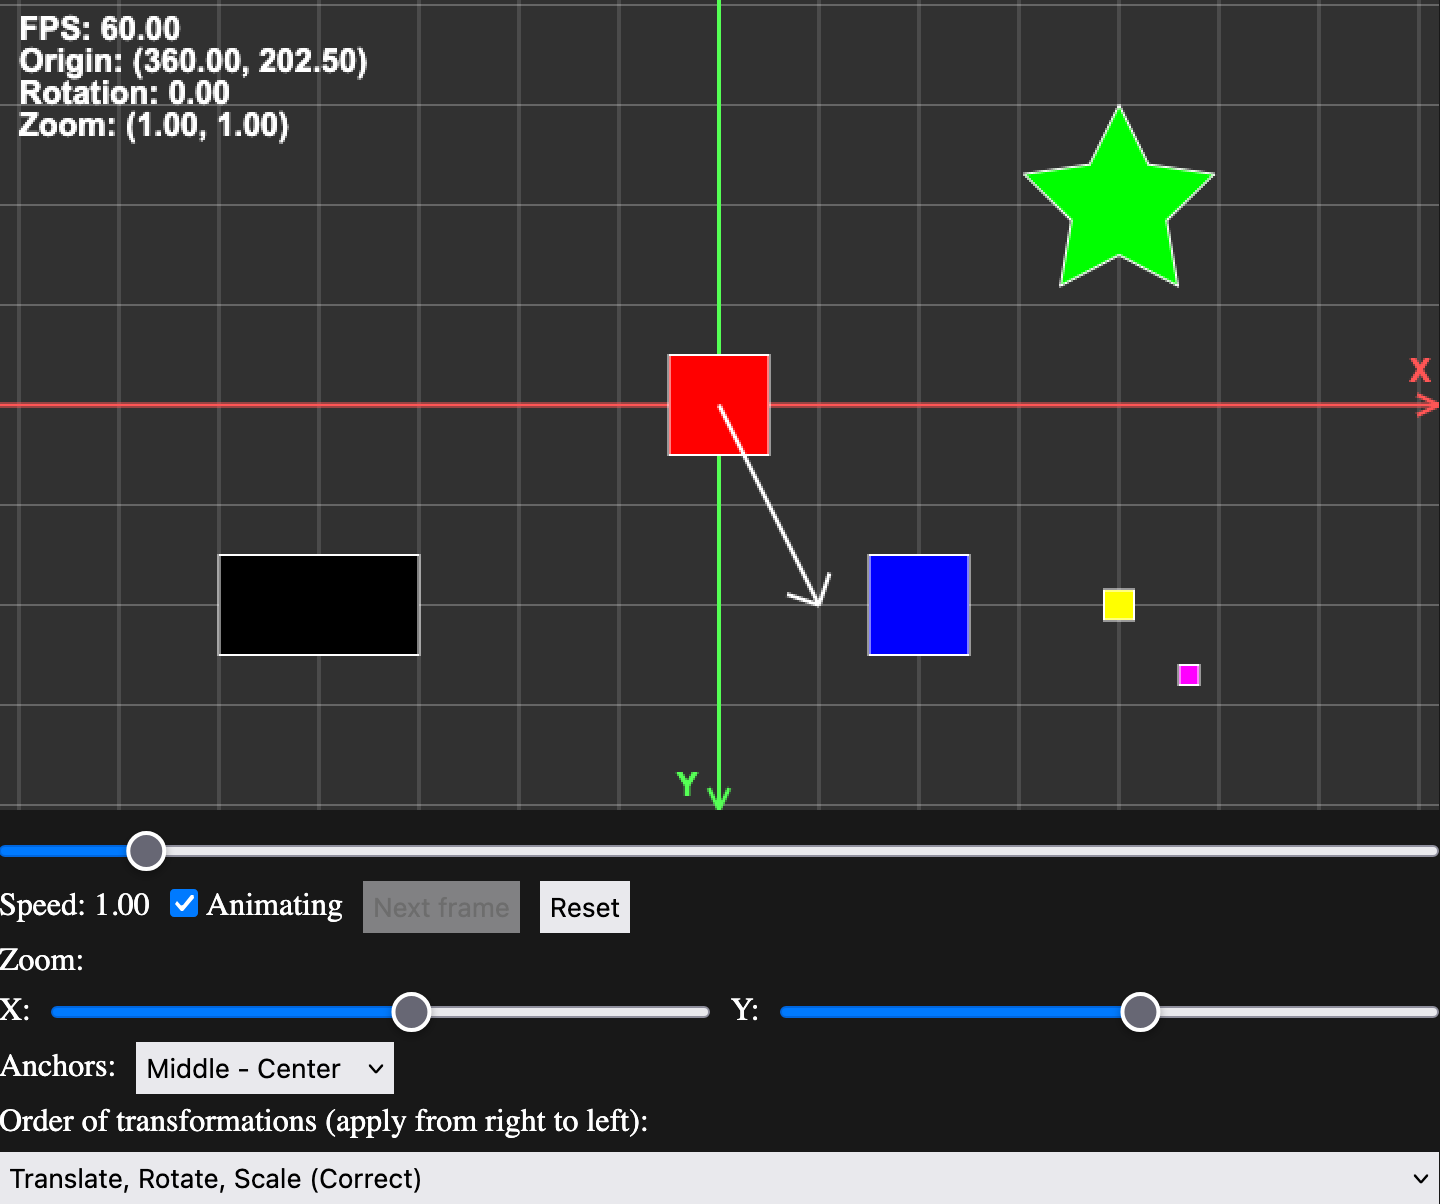
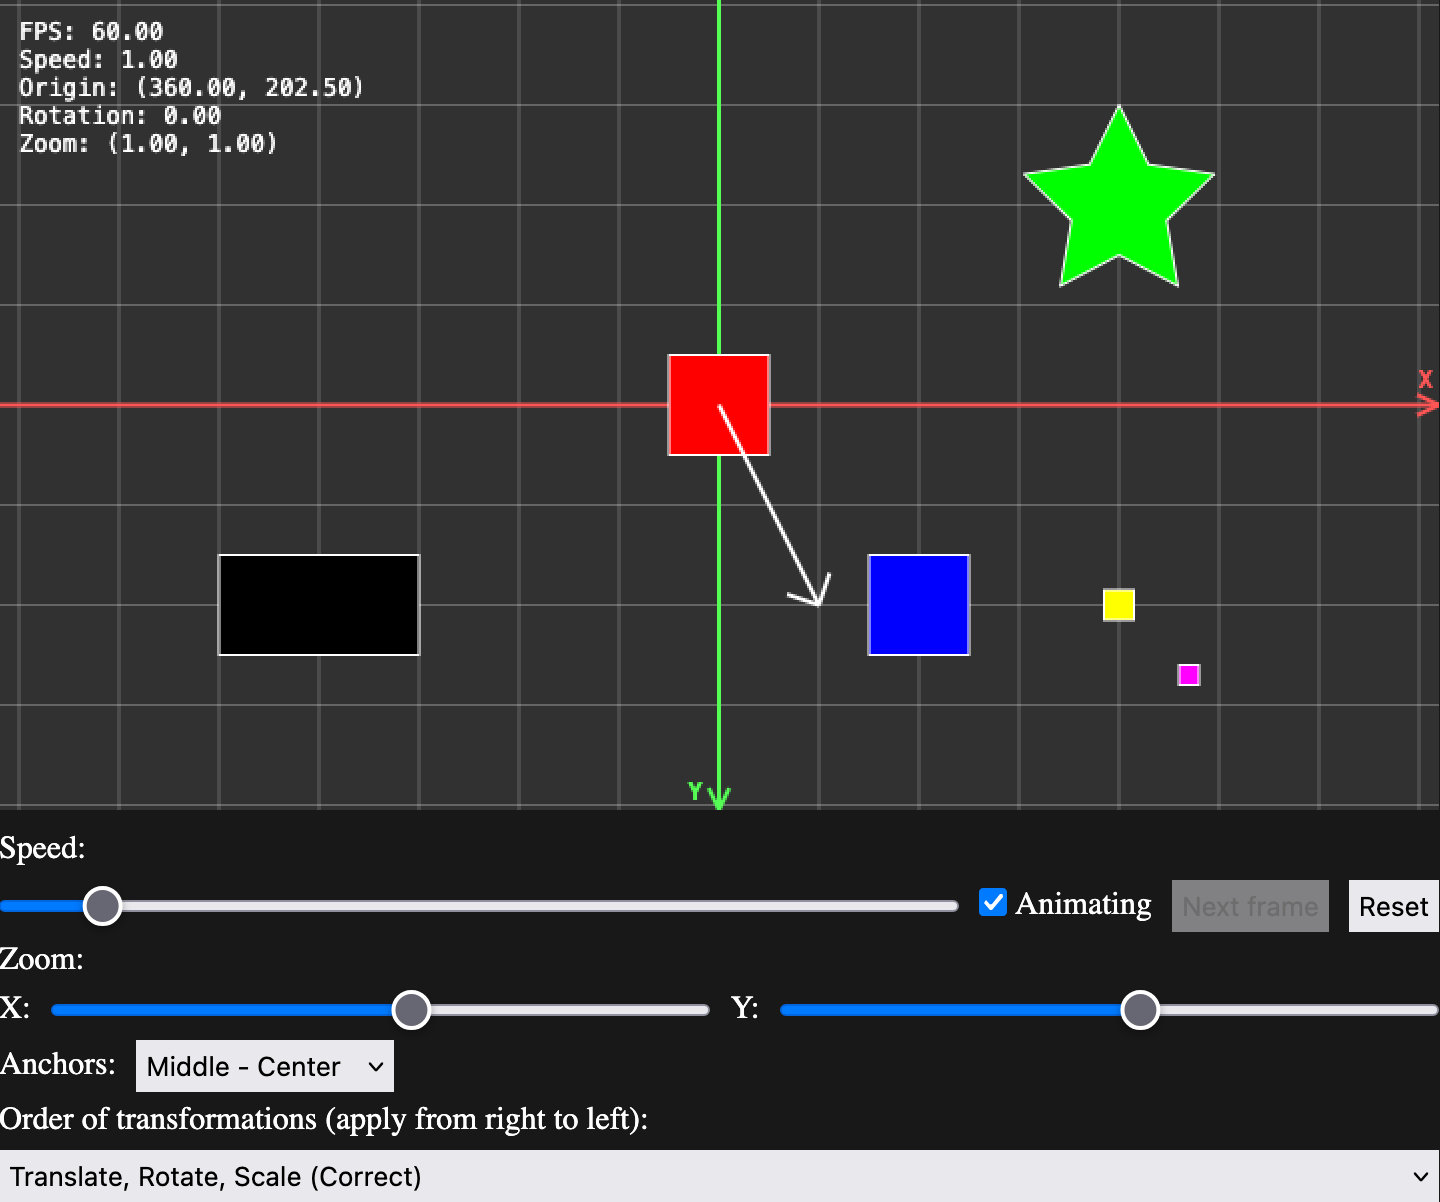
Better layout

diff --git a/js/lib/context.js b/js/lib/context.js
@@ -1,4 +1,6 @@
 const ORIGIN = Matrix.newFromArray([[0], [0], [1]]);
+const FONT_SIZE = 12;
+const LINE_GAP = 2;
 
 class Context {
   #canvas = null;
@@ -304,15 +306,15 @@ class Context {
       this.#ctx.lineTo(rightX, rightY);
     this.#ctx.stroke();
 
-    this.#ctx.font = 'bold 16px Arial';
+    this.#ctx.font = `bold ${FONT_SIZE}px monospace`;
     this.#ctx.fillStyle = axis.color;
 
     const textMetrics = this.#ctx.measureText(axis.label);
     const halfW = textMetrics.width * 0.5;
-    const halfH = 8;
-    const padding = 4;
+    const halfH = FONT_SIZE * 0.5;
+    const padding = FONT_SIZE * 0.25;
 
-    const labelOffset = 16;
+    const labelOffset = FONT_SIZE;
 
     let labelX = tipX + axis.labelPerpX * labelOffset;
     let labelY = tipY + axis.labelPerpY * labelOffset;
@@ -848,13 +850,14 @@ class Context {
     this.#ctx.stroke();
   }
 
-  drawInfo(fps) {
-    this.#ctx.font = 'bold 16px Arial';
+  drawInfo(speed, fps) {
+    this.#ctx.font = `${FONT_SIZE}px monospace`;
     this.#ctx.fillStyle = '#ffffff';
 
     this.#ctx.fillText(`FPS: ${fps.toFixed(2)}`, 10, 20);
-    this.#ctx.fillText(`Origin: (${this.#origin.x.toFixed(2)}, ${this.#origin.y.toFixed(2)})`, 10, 36);
-    this.#ctx.fillText(`Rotation: ${this.#rotation.toFixed(2)}`, 10, 52);
-    this.#ctx.fillText(`Zoom: (${this.#zoom.x.toFixed(2)}, ${this.#zoom.y.toFixed(2)})`, 10, 68);
+    this.#ctx.fillText(`Speed: ${speed.toFixed(2)}`, 10, 20 + FONT_SIZE + LINE_GAP);
+    this.#ctx.fillText(`Origin: (${this.#origin.x.toFixed(2)}, ${this.#origin.y.toFixed(2)})`, 10, 20 + (FONT_SIZE + LINE_GAP) * 2);
+    this.#ctx.fillText(`Rotation: ${this.#rotation.toFixed(2)}`, 10, 20 + (FONT_SIZE + LINE_GAP) * 3);
+    this.#ctx.fillText(`Zoom: (${this.#zoom.x.toFixed(2)}, ${this.#zoom.y.toFixed(2)})`, 10, 20 + (FONT_SIZE + LINE_GAP) * 4);
   }
 }

diff --git a/js/main.js b/js/main.js
@@ -9,7 +9,6 @@ const ZOOM_PIXELS_PER_STEP = 1;
 const mainContainer = document.getElementById('main-container');
 const canvas = document.getElementById('canvas');
 const animationSpeed = document.getElementById('animation-speed');
-const animationSpeedValue = document.getElementById('animation-speed-value');
 const animating = document.getElementById('animating');
 const nextFrame = document.getElementById('next-frame');
 const reset = document.getElementById('reset');
@@ -115,7 +114,7 @@ function drawFrame() {
     ctx.drawGrid();
     ctx.drawChildren();
     ctx.drawVector(vector1);
-    ctx.drawInfo(fps);
+    ctx.drawInfo(speedMultiplier, fps);
   ctx.drawEnd();
 }
 
@@ -544,8 +543,6 @@ canvas.addEventListener('wheel', event => {
 
 animationSpeed.addEventListener('input', event => {
   speedMultiplier = Number(animationSpeed.value);
-
-  animationSpeedValue.innerText = speedMultiplier.toFixed(2);
 });
 
 animating.addEventListener('change', event => {

diff --git a/index.html b/index.html
@@ -12,15 +12,11 @@
   <div id="main-container">
     <canvas id="canvas"></canvas>
 
-    <div id="animation-speed-container">
-      <input type="range" id="animation-speed" min="0.1" max="10" step="0.1" value="1" />
+    <div id="animation-data-container">
+      Speed:
 
-      <div id="info-frame-controls">
-        <div>
-          Speed:
-
-          <span id="animation-speed-value">1.00</span>
-        </div>
+      <div id="animation-controls">
+        <input type="range" id="animation-speed" min="0.1" max="10" step="0.1" value="1" />
 
         <div>
           <input id="animating" type="checkbox" checked /> Animating

diff --git a/css/index.css b/css/index.css
@@ -31,18 +31,24 @@ canvas {
   image-rendering: crisp-edges;
 }
 
-#animation-speed-container {
+#animation-data-container {
   display: flex;
   flex-direction: column;
   row-gap: 5px;
   margin-top: 5px;
 }
 
-#info-frame-controls, #zoom-controls, #anchors-controls {
+#animation-controls, #zoom-controls, #anchors-controls {
   display: flex;
   flex-direction: row;
   column-gap: 10px;
   align-items: center;
+}
+
+#animation-controls > input {
+  flex: 1;
+  width: 100%;
+  min-width: 50px;
 }
 
 #zoom-controls > input {
